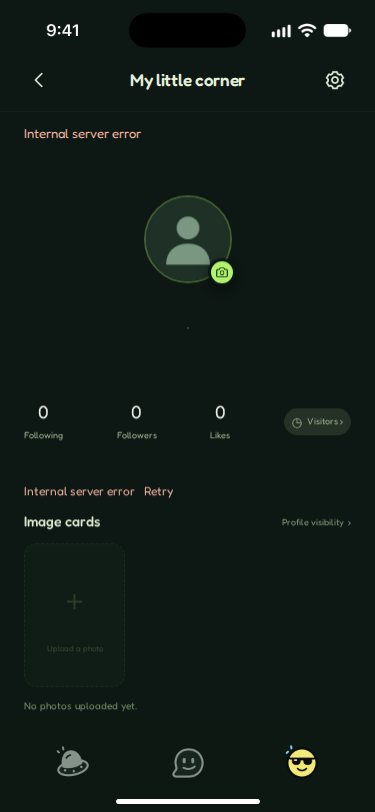
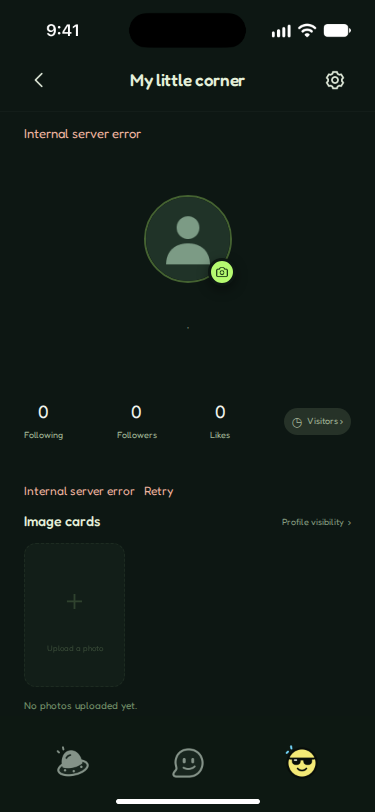
fix(ui): finish R05 small-screen correction and verify review fixes

diff --git a/client/src/fidelity.css b/client/src/fidelity.css
@@ -110,7 +110,7 @@
 .device .inbox-menu-button{gap:5px;width:36px;height:40px}
 .device .inbox-menu-button i,.device .inbox-menu-button i:nth-child(2),.device .inbox-menu-button i:last-child{width:21px;height:2px;margin:0}
 /* Keep small viewports usable without scaling text or distorting artwork. */
-@media(max-height:740px){.device{min-height:100svh}.device .magic-scene{transform:translateY(-30px);transform-origin:50% 40%}.device .scene-hint{top:auto;bottom:176px}.device .home-actions{top:auto;bottom:120px}.device .economy-actions{top:auto;bottom:98px}.device .letters-panel,.device .letters-panel.composer-panel{top:112px;max-height:calc(100% - 144px)}.device .welcome-screen>.auth-content{padding-bottom:28px}}
+@media(max-height:740px){.device{min-height:100svh}.device .magic-scene{transform:translateY(calc(-30px - max(0px, 740px - 100svh)));transform-origin:50% 40%}.device .scene-hint{top:auto;bottom:176px}.device .home-actions{top:auto;bottom:120px}.device .economy-actions{top:auto;bottom:98px}.device .letters-panel,.device .letters-panel.composer-panel{top:112px;max-height:calc(100% - 144px)}.device .welcome-screen>.auth-content{padding-bottom:28px}}
 @media(prefers-reduced-motion:reduce){.device .magic-hat{animation:none}.magic-trails{opacity:.45}}
 /* Profile keeps the actual account data, with the prototype's spacing. */
 .device .d4-profile>header{height:64px;padding:0 24px;border-bottom:1px solid #ffffff07}
@@ -235,7 +235,6 @@
 .device .home-sheet:has(#appearance-genders)>.primary{height:48px;min-height:48px;margin-top:16px}
 .device #publish:disabled{background:#252e29;color:#849288;opacity:1}
 @media(max-height:740px){.device{min-height:100svh}
- .device .magic-scene{transform:translateY(-88px) scale(.72);transform-origin:50% 40%}
  .device .letters-panel.composer-panel{top:112px;height:calc(100% - 220px);max-height:none;overflow:auto}
  .device .composer-panel .opening-form textarea{min-height:48px}
  .device .opening-form footer{position:static;flex:none;margin-top:12px;min-height:48px}

diff --git a/client/docs/ui-redo/R05-result.md b/client/docs/ui-redo/R05-result.md
@@ -8,7 +8,7 @@
 
 `main.ts` 顺序为 tokens → base → components → styles → fidelity。三处导航均采用 nav / button.main-nav__item / img，同一元素类型；当前页由 aria-current=page 表示。所有旧 id、data-state、aria-label 保留，script setup 未改。Profile 原本没有文本节点，补用已有 tr(Home/Messages/Profile)；设计没有可见文字，统一字号/行高为 0，读屏仍保留原标签或按钮文本。
 
-共享组件使用 ui-* opt-in 类，为后续页面迁移提供基础；本次接入外壳与导航，旧页面按钮、弹层等留待各页任务迁移。旧导航规则已移除。四个 *.legacy-*.css 保存从三个 Vue 提出的原有 scoped 块，通过 `<style scoped src>` 加载，内容原样保留，不当作已迁移样式；避免为零 hex 检查给非 R05 页面批量新增 token。小屏媒体查询后续仍有 `.device .magic-scene{transform:translateY(-88px) scale(.72)}` 覆盖规则，实际仍在缩放；这属于首页场景，留给 R06，本文不声称已去掉缩放。
+共享组件使用 ui-* opt-in 类，为后续页面迁移提供基础；本次接入外壳与导航，旧页面按钮、弹层等留待各页任务迁移。旧导航规则已移除。四个 *.legacy-*.css 保存从三个 Vue 提出的原有 scoped 块，通过 `<style scoped src>` 加载，内容原样保留，不当作已迁移样式；避免为零 hex 检查给非 R05 页面批量新增 token。本次删除小屏 `scale(.72)` 覆盖；保留原尺寸，以屏高差向上平移，在375×667和375×740验证缩放因子均为1、操作按钮在导航上方且无横向溢出，截图见 r05/fix6-small-*.png。
 
 ## 差距表
 
@@ -88,12 +88,12 @@
 - A1：`cd client && VITE_API_BASE_URL=/api npm run build` 本次退出码0。素材校验343 PNG / SHA256 / 尺寸 / 字体许可证通过，vue-tsc 通过，Vite 5.76s。
 - A2/A3：`tests/r05-shell.spec.ts` 从真实登录进入首页→消息→我的，逐页检查 navigation boundingBox、三项及三图的 boundingBox（容差≤1px），完整对比背景、尺寸、字体族/字号/字重/行高/字距/颜色、内边距、gap、对齐、边框/圆角等 computed style。等待入场动画完成后取值，不修改业务状态或 DOM。另断言外壳375×812、状态栏高、横条144×5 / bottom8 / 白色。无未读三变体通过；有未读三变体按 Smith 2026-11-14 决定豁免，不实现、不做断言，保留三条 skip（设计稿无画框使用）；只验三条无未读变体。
 - A5：指定两份CSS和三个Vue的 hex=0、rgb=0、!important=0；旧 styles/fidelity/home/inbox 中旧导航选择器=0；新CSS的 `.device ` 提权前缀=0；引用token无缺失；script setup及迁出的旧scoped块内容与281b4bc一致；本次去除四个 legacy 文件末尾多余空行后，在 worktree 根目录重新执行 `git diff --check`，退出码 0；同时检查 `git diff origin/main --check`，退出码 0。
-- A6：最终整组 **12通过 / 4失败 / 3跳过**（2.4m，退出码1），不能标记全部验收通过。个人资料原有数据桩问题见下；不修改业务逻辑或放宽其断言来掩盖失败。
+- A6：历史整组 **12通过 / 4失败 / 3跳过**（2.4m，退出码1）；本次复跑为 **13通过 / 3失败 / 3跳过**（2.8m，退出码1），与本次main对照无新增失败，不能标记全部验收通过。个人资料原有数据桩问题见下；不修改业务逻辑或放宽其断言来掩盖失败。
 - A4：保存三页实现截图（`docs/ui-redo/r05/r05-nav-0.png`、`docs/ui-redo/r05/r05-nav-1.png`、`docs/ui-redo/r05/r05-nav-2.png`），computed style 作为 Playwright JSON附件 `navigation-computed-styles`。本次单独复跑导航：1通过 / 3跳过（10.5s），三张均经 `file` 确认为 375×812 PNG，人工查看导航位置一致、当前页图标高亮、白色横条。“我的”页内容区出现 `Internal server error`，截图原样保留，导航通过不代表该页业务或全页通过。本任务未运行R04差异率或导出任何Figma图片，不声称全页像素验收通过。
 
 补充：底部横条的 JSON 只提供 vector 外接框，不含路径/圆角；现有本地SVG保留其形状，mask定位−7px来自父图高20、父图y792与vector y799之差，不另估圆角。个人资料原有120px导航滚动留白作为定位规则迁到components，避免底部内容被固定导航挡住。
 
-最终整组分项：
+历史整组分项（本次数量见文末复审补充）：
 
 | 文件 | 通过 | 失败 | 跳过 |
 | --- | ---: | ---: | ---: |
@@ -105,7 +105,7 @@
 
 导航实测：容器 x0/y716/375×96、背景 rgb(13,24,18)、无背景图、顶边0；三图 x52.25/166.5/280.75、y741.5、42×42；按钮文字0px/400/0行高、颜色rgb(132,146,136)。三页逐项computed style相等，字体族也纳入对比。测试截图前等待几何稳定。
 
-消息失败点：`inbox-hidden-empty` 预期未达成，实际仍为 `inbox-hidden`。按 `R05-review.md` §2.2 的独立基线对照，这是 main 基线既有稳定失败，与 R05 无关；并非抖动，不再声称单独复跑通过。
+消息失败点：`inbox-hidden-empty` 预期未达成，实际仍为 `inbox-hidden`。按 `R05-review.md` §2.2 的独立基线对照，这是历史 main 基线既有失败，与 R05 无关；本次完整复跑在 main 与 R05 均通过，不再将“稳定失败”作为本次结论。
 
 ### 回归失败与基线对照
 
@@ -115,7 +115,7 @@
 2. `D4 public profile and chat gate open`：预期 public-follow enabled，实际 disabled；已有资料/会话数据桩与现有逻辑不一致。
 3. `D4 public full content, photo previews, own image cards and outgoing visits`：预期 `25 · Seoul`，实际资料区为空。
 
-按 `R05-review.md` §2.2，d4 三败和 inbox 一败均为 main 基线既有失败，与 R05 无关；本次未重跑整组 A6。本任务不改这些数据协议或业务逻辑。初跑还发现导航迁移丢失滚动留白，已恢复并单独复跑该用例通过；导航初跑在入场动画中采样，已改为等待稳定几何后断言，通过后再跑整组。
+按 `R05-review.md` §2.2，d4 三败和 inbox 一败均为 main 基线既有失败，与 R05 无关；本次已在分支和 origin/main 独立副本重跑整组 A6，结果见文末。本任务不改这些数据协议或业务逻辑。初跑还发现导航迁移丢失滚动留白，已恢复并单独复跑该用例通过；导航初跑在入场动画中采样，已改为等待稳定几何后断言，通过后再跑整组。
 
 ### 复跑
 
@@ -145,3 +145,10 @@ Path('r05-run.config.ts').write_text(s)
 本次（2026-11-14）检查3001/5173空闲，使用默认配置，仅运行 `tests/r05-shell.spec.ts --workers=1`；`TEST_DATABASE_URL` 指向 R05 专用一次性本地 PostgreSQL 16 容器（5505），通过 `/__c5/seed` 自建账号登录，无 demo 账号或临时端口文件。
 
 历史首次沙箱内运行被本地IPC权限限制（tsx管道EPERM）；以获批的本地测试执行权限运行成功启动。未连接生产数据库，未停止既有3001服务。
+
+
+### 2026-11-14 六项复审补充
+
+本次实际起点为远端 `749429f`，已变基到 main `be44f5e`（原分叉点 `281b4bc`），再次 fetch/checkout/rebase 显示 up to date。六项详情及证据见 [r05/fix6.md](r05/fix6.md)。修复前后 main 均为 `be44f5e`；未改 review 的 REQUEST_CHANGES 和未读豁免。
+
+补齐小屏代码、布局验证及整组回归：R05 **13过/3败/3跳过**，main **12过/3败**（main无R05新增导航用例及三个skip），三项D4失败断言完全相同，无新增失败。历史inbox失败本次两边均通过。要求精确复现12/4/3这一项标为**未通过**，不能将历史数字写成本次结果。两次构建退出码0，diff检查通过。三张导航证据已入库并由本次导航测试重新生成。

diff --git a/client/docs/ui-redo/r05/fix6.md b/client/docs/ui-redo/r05/fix6.md
@@ -1,0 +1,30 @@
+# R05 六项修复复审补充（2026-11-14）
+
+本轮起点实际为 `749429f6aa1098b46d83e6c23bb2304c2c25fa06`，并非任务描述的4570d5b；远端已含首次修复。执行 `git fetch origin`、`git checkout -B codex/r05-shell origin/codex/r05-shell`、`git rebase origin/main`，结果 up to date。原分叉点281b4bc，变基目标及本轮修复前后 main 均为 `be44f5e5b3e6b5bb3c8e98e1c1ded96ae242e349`。保留已有R05提交，不合入main；R05-review.md未改，仍REQUEST_CHANGES，三条未读skip及豁免不变。
+
+| 项目 | 结果 | 改动及证据 |
+| --- | --- | --- |
+| 1 变基main | 通过 | 已有749429f基于be44f5e；本次fetch及rebase确认最新，无冲突，保留豁免 |
+| 2 dialog渐变 | 通过 | components.css `.ui-dialog`为`--grad-card-diagonal-h391-5`，选择器无横向token |
+| 3 chip文字色 | 通过 | components.css `.ui-chip`为`--text-profile-wallet`，选择器无`--text-primary` |
+| 4 文档与小屏 | 通过 | 默认图标按钮135°；diff实测通过；删除scale(.72)，小屏按高度差平移；inbox注明历史main既有失败、本轮两边通过。更新R05-result.md及此前修复记录 |
+| 5 三图入库 | 通过 | r05-nav-0/1/2.png已在749429f提交，本轮导航用例重新生成并提交；均375×812，非忽略文件 |
+| 6 legacy末尾 | 通过 | 四个legacy文件只有一个末尾换行；与4570d5b逐字节比较，唯一差异为删除多余末尾换行，规则内容不变 |
+
+## 验证实测
+
+- 变基确认后、修复完成后各执行 `cd client && npm run build`，退出码均0，343PNG、vue-tsc及Vite通过。最终构建日志摘要见fix6-build.log。
+- `git diff --check`和`git diff origin/main --check`均退出码0。base.css/components.css中hex、!important、`.device `前缀分别均0；grep确认上述两个选择器token正确，scale(.72)不存在。
+- 小屏独立检查375×667和375×740：1 passed、退出码0；两尺寸transform缩放因子均[1,1]、无横向溢出，按钮分别y499/572高48，导航y571/644高96；截图人工查看插画不压按钮。仅删除scale初版在667高度有重叠，已改成`translateY(calc(-30px - max(0px, 740px - 100svh)))`，复跑通过。证据fix6-small-667/740.png、fix6-small.log及fix6-small.spec.ts.txt（验证脚本存档）。
+- 整组原断言：`r05-shell.spec.ts home.spec.ts inbox.spec.ts d4.spec.ts client.spec.ts --workers=1`，R05 **13过/3败/3跳过**（2.8m，退出码1）。main源码独立副本同组原有用例 **12过/3败**（3.1m，退出码1）；main没有R05新增导航测试和三个skip。三项D4失败与main同用例同断言，无新增失败；inbox本次两边通过。
+- **未通过：精确复现#144历史12过/4败/3跳过**。实测比历史少一项inbox失败，不能伪造为12/4/3，也不声称整组全绿。回归无新增失败通过；复审是否接受本次数量差异待审查决定。
+
+| 共同失败 | 共同断言 |
+| --- | --- |
+| D4 editing, avatar gallery, remove, restore, crop, persistence and full slots | #edit-profile预期包含Book wanderer，元素未出现 |
+| D4 public profile and chat gate open | #public-follow预期enabled，实际disabled |
+| D4 public full content, photo previews, own image cards and outgoing visits | .profile-hero预期25 · Seoul，实际空字符串 |
+
+运行方式：默认3001被既有服务占用，未停止或复用。使用/tmp独立源码副本、相同依赖与断言，仅替换端口：分支3105/5185，main3106/5186，小屏3107/5187。隔离的一次性PostgreSQL16容器r05-fix6-validation，监听127.0.0.1:5505，测试自建临时库，不用生产数据。初次工作区运行因临时文件被外部清理中断，废弃该结果后重新完整运行；正式日志为fix6-branch-regression.log和fix6-main-regression.log（入库时仅清除行尾空格，保留原始结果）。整组812高度不受最后的<=740小屏平移调整影响；小屏最终代码另行复跑通过。
+
+提交及推送限定codex/r05-shell，使用force-with-lease；不合入main、不创建Issue，不改R06–R16或未读变体。
